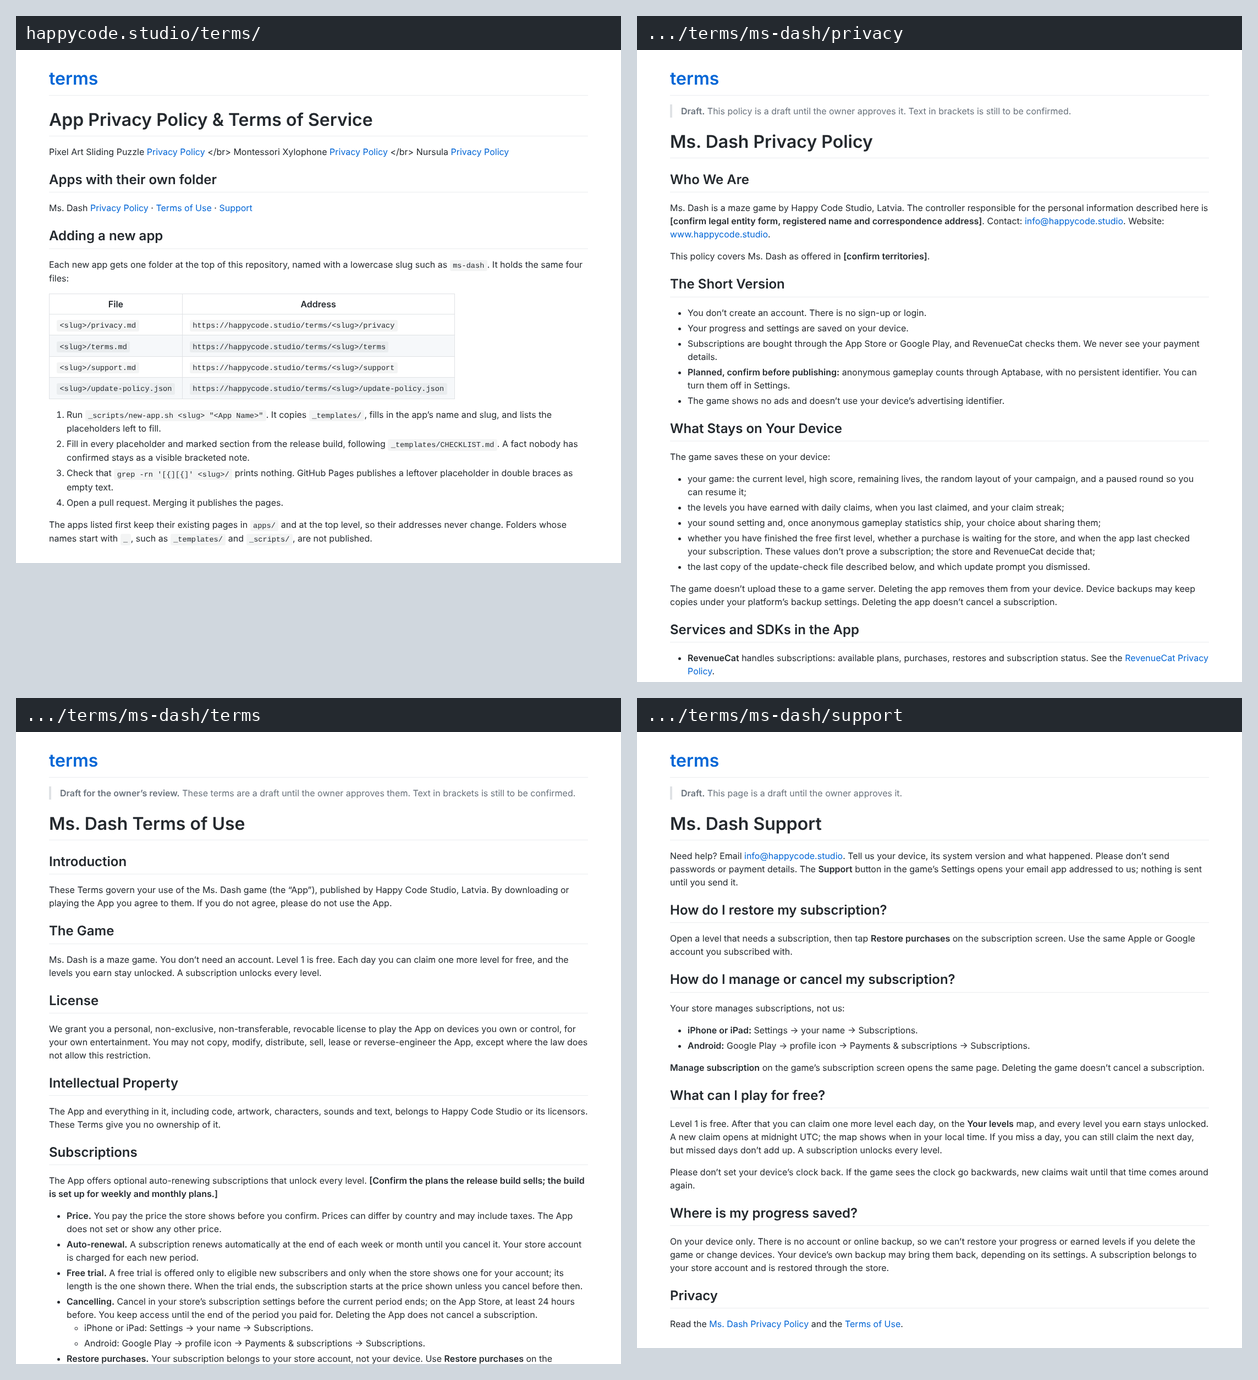
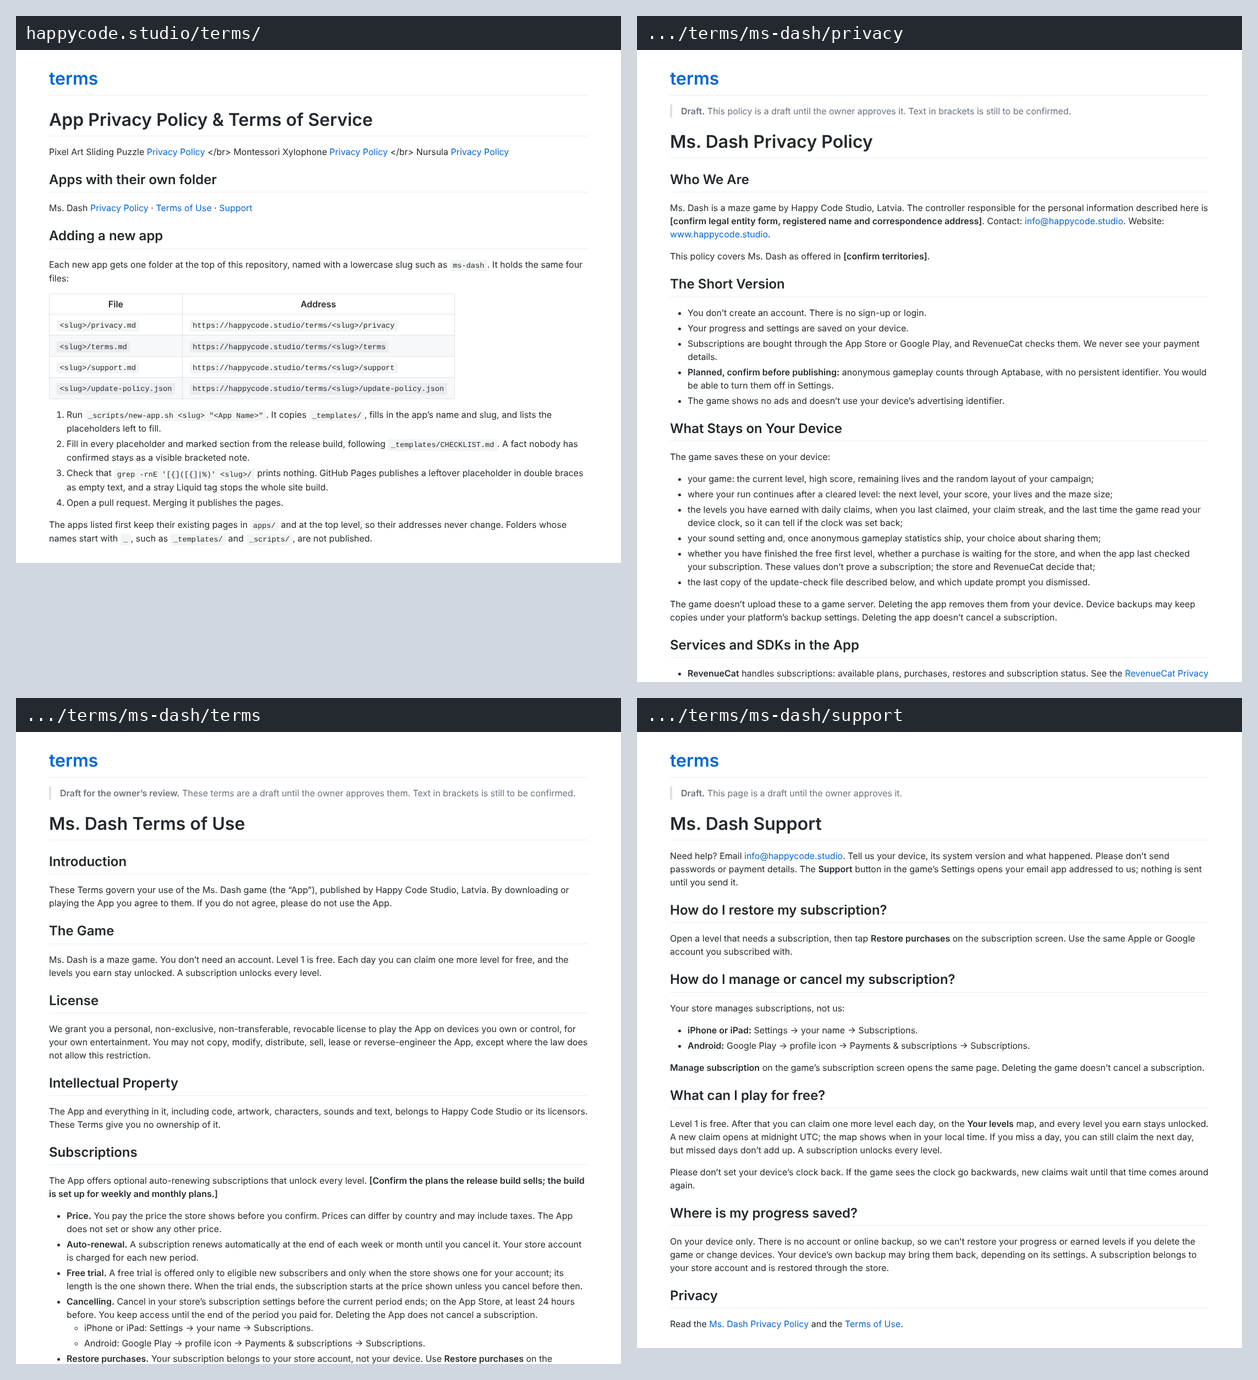
Fix: Ms. Dash privacy draft and Liquid guard per code review
From the review of PR #3 at e2f9947:

- privacy.md no longer says the game connects to Aptabase; master has no
  Aptabase path. The Aptabase section stays in the future tense, including
  the Settings switch. Its bracket now also asks to confirm what #75 would
  store on the device (queued events and once-per-install milestone marks)
  and that the power-sweet event depends on #133.
- privacy.md now says what is actually saved after a cleared level (next
  level, score, lives and maze size), not a paused round, and adds the last
  device-clock reading used to detect a clock set back.
- new-app.sh refuses {% and %} in the app name as well as {{ and }}. The
  check in its output, README and CHECKLIST is now grep -rnE '[{]([{]|%)',
  written so the published README contains neither opener itself.
- CHECKLIST: the URLs must return 200 directly, with no redirect, and an
  "Advertising and tracking" fact item is added, matching the kit guide.
- Evidence screenshots regenerated.

Claude-Session: https://claude.ai/code/session_01WiyhE124DGCNGmJkDTUjEn

Changed region(s): [[0.527, 0.3428, 0.961, 0.4986], [0.124, 0.3428, 0.279, 0.3739], [0.062, 0.3428, 0.093, 0.3739]]

diff --git a/ms-dash/privacy.md b/ms-dash/privacy.md
@@ -19,17 +19,21 @@ This policy covers Ms. Dash as offered in **[confirm territories]**.
 - Subscriptions are bought through the App Store or Google Play, and RevenueCat
   checks them. We never see your payment details.
 - **Planned, confirm before publishing:** anonymous gameplay counts through
-  Aptabase, with no persistent identifier. You can turn them off in Settings.
+  Aptabase, with no persistent identifier. You would be able to turn them off
+  in Settings.
 - The game shows no ads and doesn't use your device's advertising identifier.
 
 ## What Stays on Your Device
 
 The game saves these on your device:
 
-- your game: the current level, high score, remaining lives, the random layout
-  of your campaign, and a paused round so you can resume it;
-- the levels you have earned with daily claims, when you last claimed, and your
-  claim streak;
+- your game: the current level, high score, remaining lives and the random
+  layout of your campaign;
+- where your run continues after a cleared level: the next level, your score,
+  your lives and the maze size;
+- the levels you have earned with daily claims, when you last claimed, your
+  claim streak, and the last time the game read your device clock, so it can
+  tell if the clock was set back;
 - your sound setting and, once anonymous gameplay statistics ship, your choice
   about sharing them;
 - whether you have finished the free first level, whether a purchase is waiting
@@ -94,26 +98,31 @@ first levels and the subscription screen work. The app would send only these
 7. the subscription screen closed;
 8. level 5 cleared.
 
-Each event carries the app version and the platform. The Aptabase SDK also
-adds, on its own: the time, the operating system name and version, the
-device's language and region setting, the app's build number, the SDK version,
-whether it is a development build, and a random session ID. The session ID is
-kept in memory only and replaced after an hour without events. Events wait on
-your device until they are sent.
+Each event would carry the app version and the platform. The Aptabase SDK
+would also add, on its own: the time, the operating system name and version,
+the device's language and region setting, the app's build number, the SDK
+version, whether it is a development build, and a random session ID. The
+session ID would be kept in memory only and replaced after an hour without
+events. Events would wait on your device until they are sent.
 
-There is no persistent identifier, no cookie and no advertising identifier, so
-these counts can't follow you from one day to the next and aren't used to
-track you. Subscriptions and trials are not part of these counts; they stay in
-RevenueCat.
+There would be no persistent identifier, no cookie and no advertising
+identifier, so these counts couldn't follow you from one day to the next and
+wouldn't be used to track you. Subscriptions and trials would not be part of
+these counts; they stay in RevenueCat.
 
-You can turn this off in **Settings → Share anonymous gameplay stats**. It is
-on by default.
+You would be able to turn this off in **Settings → Share anonymous gameplay
+stats**, which would be on by default.
 
 **[Confirm before publishing: that the release build ships this feature as
-described; the SDK version and every property it sends; what Aptabase derives
-from the connection, such as an approximate country from your IP address, and
-whether it stores IP addresses; the Aptabase region (EU or US); and the lawful
-basis for collecting these counts by default.]**
+described, including the Settings switch; that the power-sweet event ships,
+since it depends on power sweets (ms_dash_man#133); the SDK version and every
+property it sends; what the game would store on the device for these counts:
+your choice, up to 100 queued events waiting to be sent (deleted when you turn
+sharing off), and a once-per-install mark for each milestone event already
+sent; what Aptabase derives from the connection, such as an approximate
+country from your IP address, and whether it stores IP addresses; the Aptabase
+region (EU or US); and the lawful basis for collecting these counts by
+default.]**
 
 ### The Update Check
 
@@ -173,7 +182,8 @@ a parent or guardian request.]**
 
 ## Security
 
-The game's connections to RevenueCat, Aptabase and this website use HTTPS.
+The game's connections to RevenueCat and this website use HTTPS, as would the
+planned Aptabase counts.
 **[Describe the verified safeguards for support email and the subscription
 dashboards.]**
 

diff --git a/_templates/CHECKLIST.md b/_templates/CHECKLIST.md
@@ -6,10 +6,11 @@ memory or another app's pages.
 
 - A fact nobody has confirmed stays in the page as a visible `[bracketed note]`.
   The page is not ready to publish while one is left.
-- No `{{...}}` may be left in a page. GitHub Pages runs Liquid over every
-  Markdown page, so a leftover placeholder is published as empty text and
-  quietly disappears; a lone `{{` can fail the whole site build. Before
-  merging, this must print nothing: `grep -rn '{{' <slug>/`
+- No `{{` or `{%` may be left in a page. GitHub Pages runs Liquid over every
+  Markdown page. A leftover `{{...}}` placeholder is published as empty text
+  and quietly disappears. A stray `{%` or an unclosed `{{` fails the whole site
+  build, which stops every page from updating. Before merging, this must print
+  nothing: `grep -rnE '[{]([{]|%)' <slug>/`
 
 ## Placeholders
 
@@ -57,6 +58,8 @@ the placeholder inside with real content. The comments don't show on the page.
   purchase provider (for example RevenueCat), restore and manage paths.
 - [ ] **Analytics.** The provider, every event, every property the app sends,
   every property the SDK adds on its own, identifiers, and the opt-out.
+- [ ] **Advertising and tracking.** Whether there is any, and the consent and
+  ATT flows.
 - [ ] **Contact.** The email address that answers support and privacy requests.
 - [ ] **Publisher.** The trading name, legal entity form, address and website.
 - [ ] **Jurisdiction and territories.** The governing law, and where the app is
@@ -89,6 +92,7 @@ the app's documentation.
 
 Merging publishes the pages. Then:
 
-- [ ] All four URLs return `200`: `.../<slug>/privacy`, `/terms`, `/support`
-  and `/update-policy.json`.
+- [ ] All four URLs return `200` directly, with no redirect:
+  `.../<slug>/privacy`, `/terms`, `/support` and `/update-policy.json`. The
+  update check should read the file directly.
 - [ ] The privacy page names every SDK in the release build.

diff --git a/README.md b/README.md
@@ -23,7 +23,7 @@ Each new app gets one folder at the top of this repository, named with a lowerca
 
 1. Run `_scripts/new-app.sh <slug> "<App Name>"`. It copies `_templates/`, fills in the app's name and slug, and lists the placeholders left to fill.
 2. Fill in every placeholder and marked section from the release build, following `_templates/CHECKLIST.md`. A fact nobody has confirmed stays as a visible bracketed note.
-3. Check that `grep -rn '[{][{]' <slug>/` prints nothing. GitHub Pages publishes a leftover placeholder in double braces as empty text.
+3. Check that `grep -rnE '[{]([{]|%)' <slug>/` prints nothing. GitHub Pages publishes a leftover placeholder in double braces as empty text, and a stray Liquid tag stops the whole site build.
 4. Open a pull request. Merging it publishes the pages.
 
 The apps listed first keep their existing pages in `apps/` and at the top level, so their addresses never change. Folders whose names start with `_`, such as `_templates/` and `_scripts/`, are not published.
